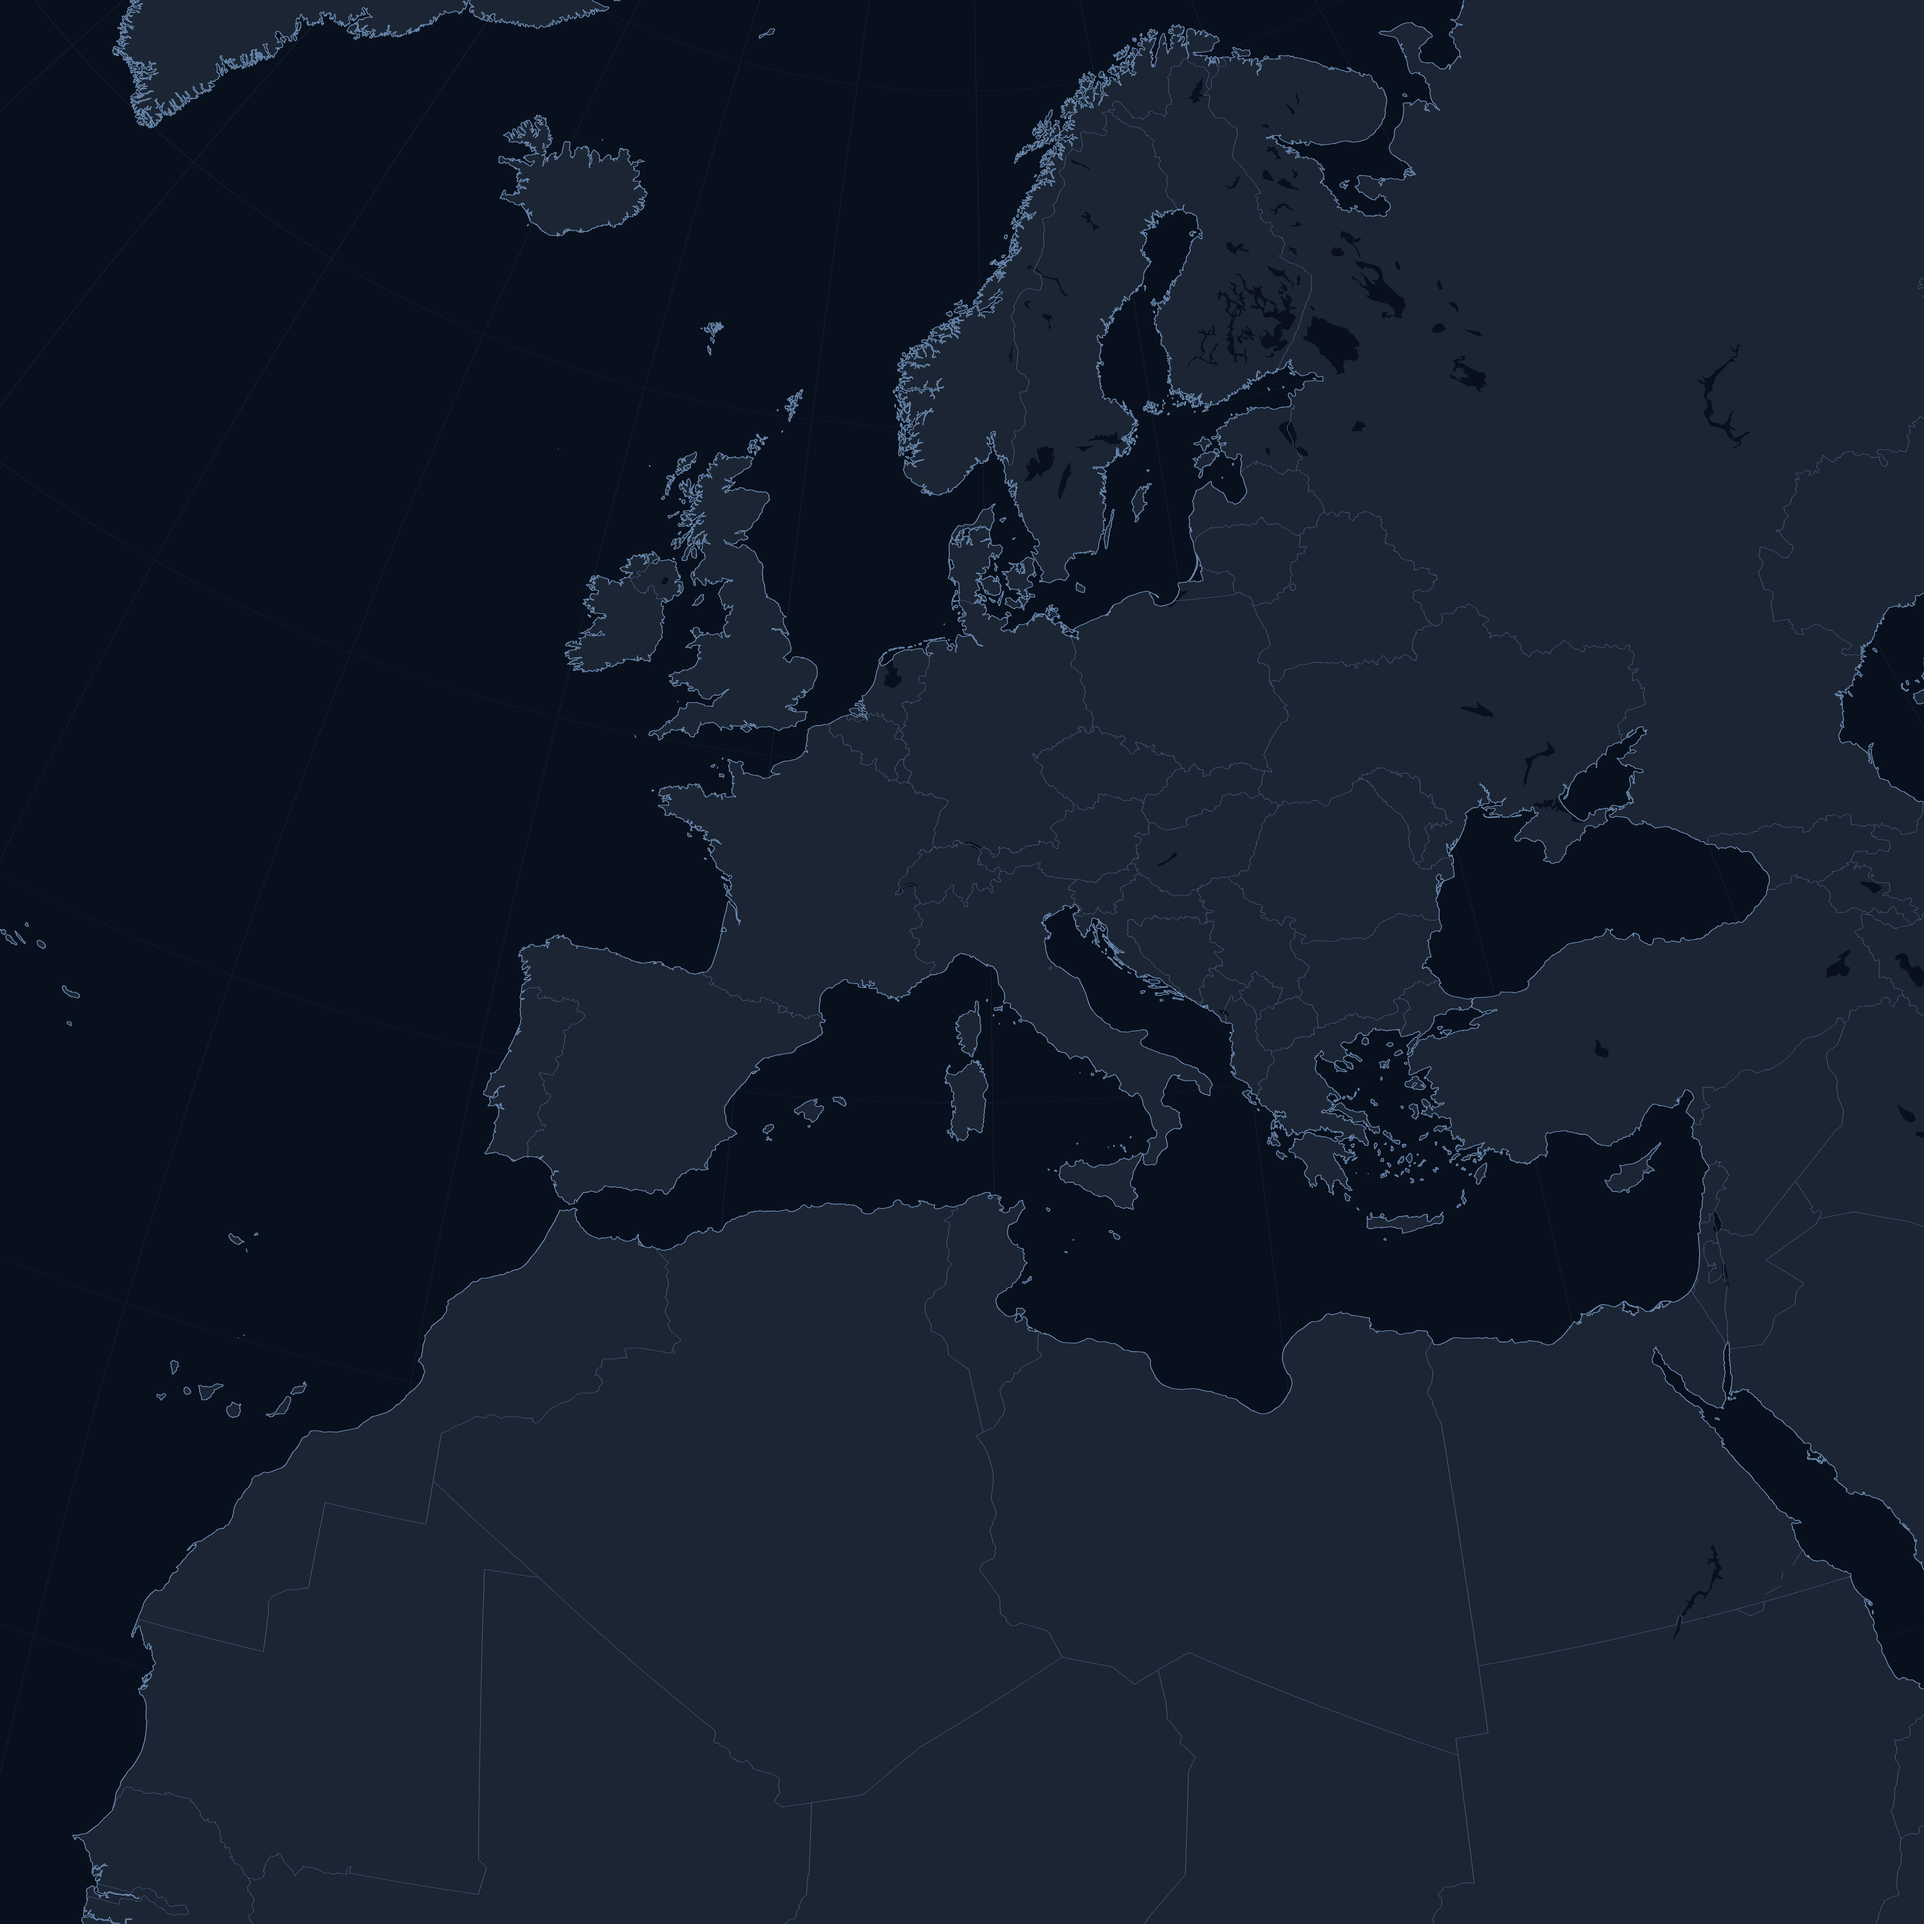
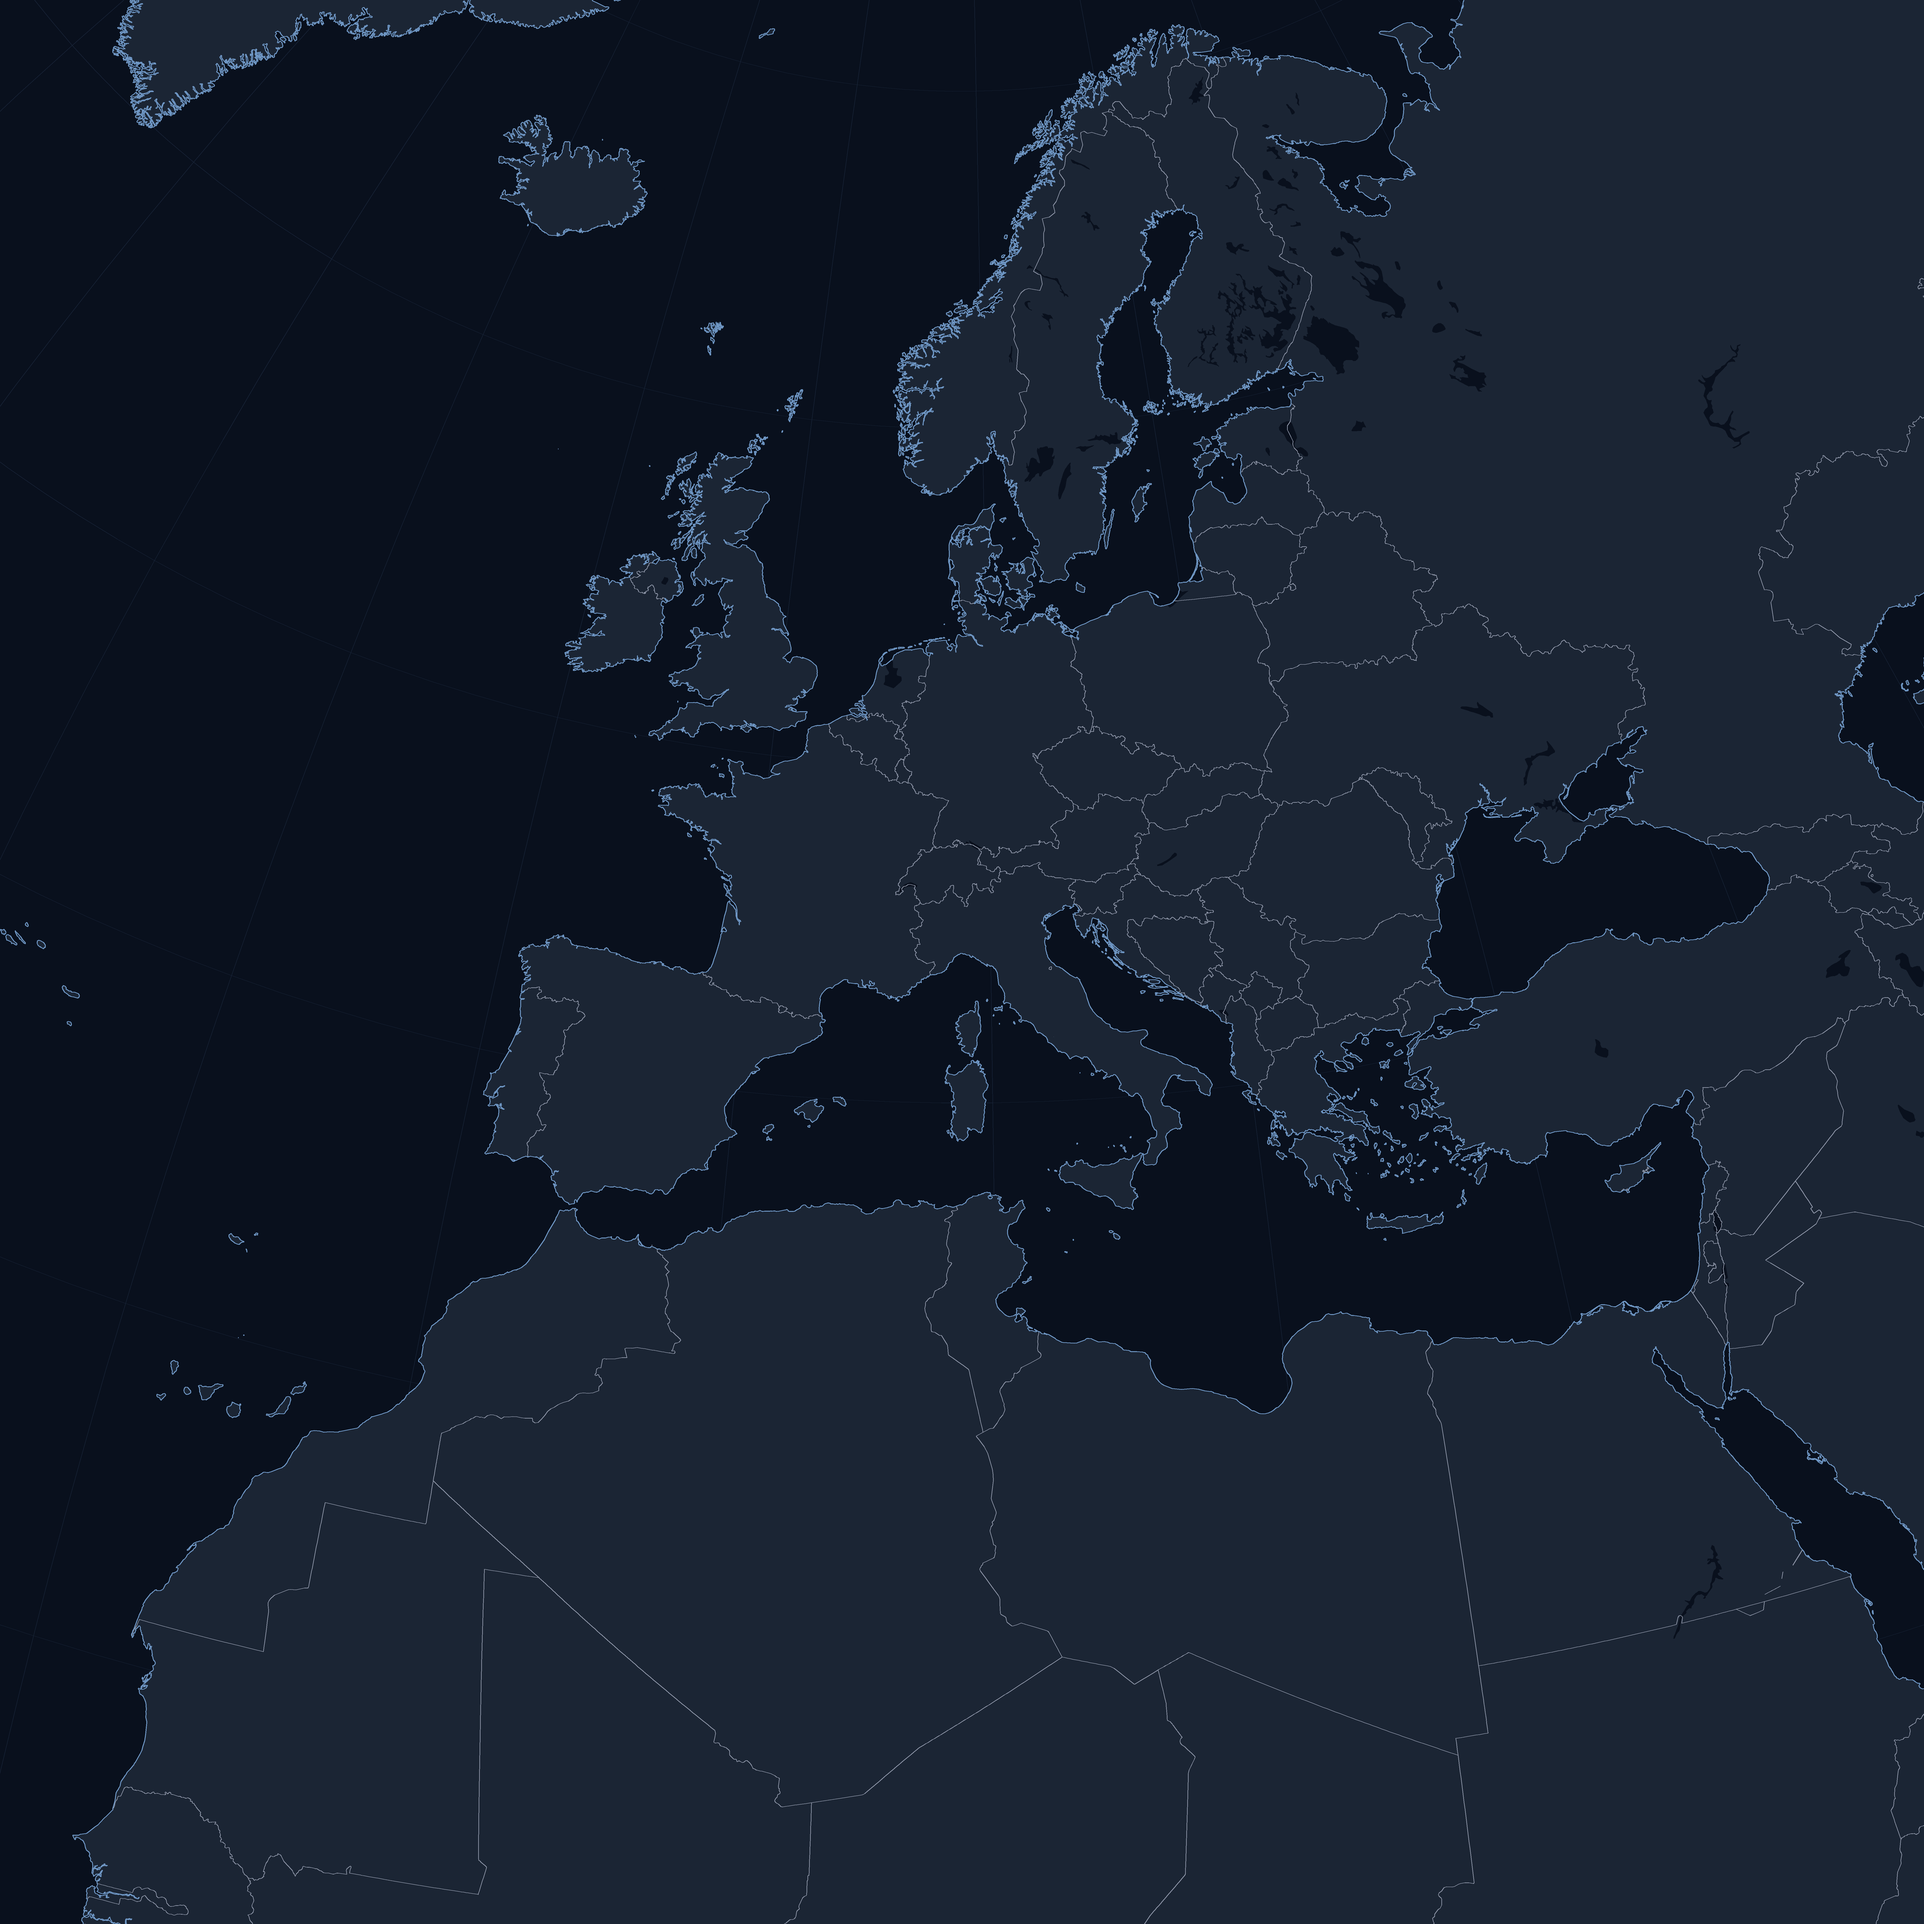
Map: clearer country borders, grey so they differ from the coastlines
Borders 1.6 px in neutral grey (138,146,164) instead of a dim 1.2 px
blue-grey; coastlines a little brighter blue (110,150,196). Borders now
read almost as well as coasts without looking like a second coastline or
competing with the orange / blue airports. Texture regenerated.

diff --git a/scripts/build_geomap.py b/scripts/build_geomap.py
@@ -43,12 +43,13 @@ LAKES = "ne_50m_lakes"
 DEFAULT_REGION = (-32.0, 46.0, 26.0, 72.0)
 
 # Dark theme, close to the dashboard (UIKit): sea darkest, land a step lighter,
-# coastlines brightest so the shape of Europe reads first, borders between.
+# coastlines bright blue so the shape of Europe reads first, country borders
+# nearly as clear but neutral grey (a different tone, not a second coastline).
 SEA = (9, 16, 29)
 LAND = (27, 37, 52)
 GRATICULE = (24, 36, 56)
-BORDER = (70, 88, 114)
-COAST = (104, 134, 170)
+BORDER = (138, 146, 164)
+COAST = (110, 150, 196)
 
 log = logging.getLogger("build_geomap")
 
@@ -195,7 +196,7 @@ def render(countries, coastline, lakes, size, half, lat0, lon0, scale=2):
     for f in countries["features"]:
         outer, holes = rings(f["geometry"])
         for ring in outer + holes:
-            canvas.line(ring, BORDER, 1.2)
+            canvas.line(ring, BORDER, 1.6)
     for f in coastline["features"]:
         lines, _ = rings(f["geometry"])
         for line in lines:
